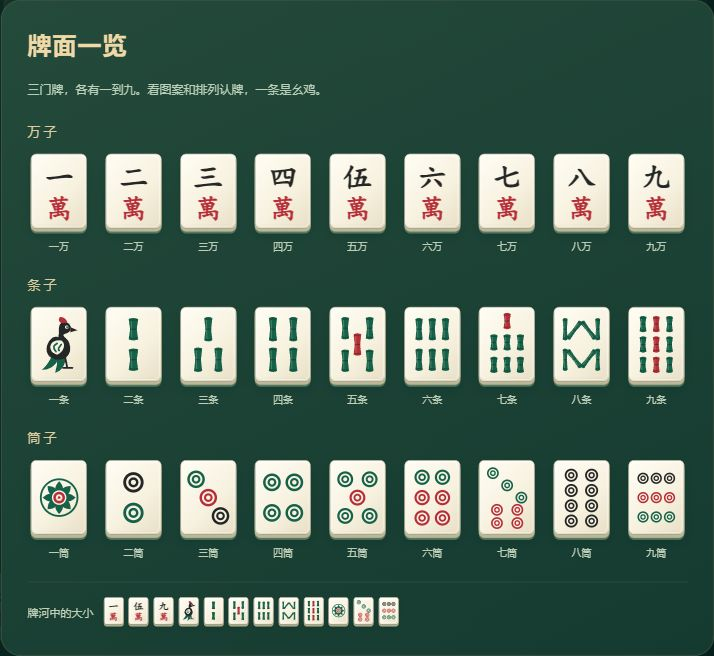
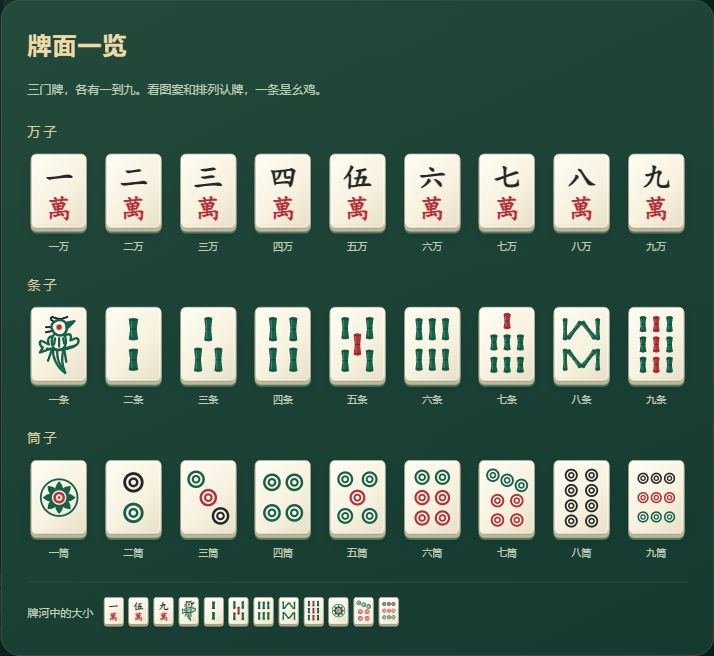
Refine one bamboo bird and seven circles spacing

diff --git a/index.html b/index.html
@@ -2486,7 +2486,8 @@ window.onerror = function (msg, src, line, col) {
     4: { r: 8.7, pts: [[13, 17], [35, 17], [13, 47], [35, 47]], colors: 'gggg' },
     5: { r: 7.8, pts: [[12, 14], [36, 14], [24, 32], [12, 50], [36, 50]], colors: 'ggrgg' },
     6: { r: 7.5, pts: [[14, 12], [34, 12], [14, 32], [34, 32], [14, 52], [34, 52]], colors: 'ggrrrr' },
-    7: { r: 5.8, pts: [[10, 8], [24, 20], [38, 32], [14, 44], [34, 44], [14, 57], [34, 57]], colors: 'gggrrrr' },
+    // 上三筒为浅斜线，下四筒为正方形；两组间留白，不能挤成四行。
+    7: { r: 6.6, pts: [[10, 10], [24, 15], [38, 20], [14.5, 35], [33.5, 35], [14.5, 54], [33.5, 54]], colors: 'gggrrrr' },
     8: { r: 6.4, pts: [[14, 10], [34, 10], [14, 25], [34, 25], [14, 40], [34, 40], [14, 55], [34, 55]], colors: 'kkkkkkkk' },
     9: { r: 5.5, pts: [[11, 13], [24, 13], [37, 13], [11, 32], [24, 32], [37, 32], [11, 51], [24, 51], [37, 51]], colors: 'kkkrrrggg' }
   };
@@ -2524,17 +2525,18 @@ window.onerror = function (msg, src, line, col) {
       '<path d="M' + f(-x * .7) + ' 0H' + f(x * .7) + '" stroke="#082e22" stroke-opacity=".48" stroke-width="1.2"/>' +
       '<path d="M' + f(-x * .7) + ' ' + f(-y + 2) + 'H' + f(x * .7) + 'M' + f(-x * .7) + ' ' + f(y - 2) + 'H' + f(x * .7) + '" stroke="#071e18" stroke-opacity=".3" stroke-width="1.1" stroke-linecap="round"/></g>';
   }
-  // 幺鸡：侧身、长尾与一小笔朱红冠，避免缩小后像空心圆。
+  // 幺鸡：中式刻纹的圆首红眼、展开双翼和下垂长尾，墨绿线条留出羽纹。
   function birdSvg() {
-    return '<g fill="#242725">' +
-      '<path d="M18 40Q15 50 7 57Q18 57 23 47L20 60Q30 57 31 43Z" fill="#166149"/>' +
-      '<path d="M23 25C20 23 15 26 13 31C9 39 14 47 23 47C32 47 37 40 34 31C33 27 29 25 28 23C28 21 33 22 35 18C37 12 31 8 26 11C22 14 25 20 23 25Z"/>' +
-      '<path d="M26 11Q22 8 25 5Q30 5 32 10Z" fill="#b62f38"/>' +
-      '<path d="M35 15L42 18L35 20Z"/>' +
-      '<circle cx="31.5" cy="15" r="1.6" fill="#f8f2e2"/><circle cx="31.8" cy="15" r=".8" fill="#173c30"/>' +
-      '<path d="M22 28C13 29 13 40 22 42C29 39 31 31 26 28Z" fill="#f8f2e2"/>' +
-      '<path d="M22 31Q16 34 21 39M26 32Q22 37 24 38M18 46L14 53M22 48L24 54" fill="none" stroke="#166149" stroke-width="1.7" stroke-linecap="round"/>' +
-      '<path d="M30 45L32 55M28 55H37" fill="none" stroke="#242725" stroke-width="1.8" stroke-linecap="round"/></g>';
+    return '<g fill="none" stroke="#166149" stroke-width="2.3" stroke-linecap="round" stroke-linejoin="round">' +
+      '<path d="M18 35C17 43 21 54 30 60C26 51 26 43 29 35Z" fill="#f8f2e2"/>' +
+      '<path d="M22 38Q22 49 27 55M17 37L13 48M29 37L31 49"/>' +
+      '<path d="M18 24C13 24 12 28 14 32L8 29C4 27 4 33 8 35L5 40L16 36M29 24C34 20 37 22 35 28L40 26C44 25 44 31 40 33L29 36" fill="#f8f2e2"/>' +
+      '<path d="M19 22C16 25 16 33 19 36Q24 39 29 35C32 30 31 25 28 22" fill="#f8f2e2"/>' +
+      '<path d="M12 36Q25 40 39 34M20 26L19 32M24 26V34M28 26L29 31"/>' +
+      '<path d="M30 11L39 9L32 16" fill="#166149"/>' +
+      '<path d="M18 9Q14 7 17 5Q22 7 26 7L32 5M17 15L11 15M16 19L11 20" stroke="#242725" stroke-width="2"/>' +
+      '<path d="M31 14C31 8 24 6 19 10C14 13 17 21 23 23C28 24 33 20 31 14Z" fill="#f8f2e2"/>' +
+      '<circle cx="24" cy="15" r="2.7" fill="#b62f38" stroke="none"/></g>';
   }
   function oneDotSvg() {
     var petals = '';

diff --git a/tests/offline.test.js b/tests/offline.test.js
@@ -10,7 +10,7 @@ function worker(fetch) {
   vm.runInNewContext(fs.readFileSync(path.join(__dirname, '..', 'sw.js'), 'utf8'), {
     URL, fetch,
     self: { location: { href: 'https://example.com/mahjong/sw.js' }, clients: { claim: async () => {} }, addEventListener: (name, fn) => handlers[name] = fn },
-    caches: { keys: async () => ['zmj-v15', 'zmj-v16', 'zmj-v17', 'zmj-v18', 'zmj-v19', 'zmj-v20', 'zmj-v21', 'zmj-v22', 'zmj-v23', 'zmj-v24', 'another-project-v1'], delete: async key => deleted.push(key), open: async () => cache, match: async () => undefined }
+    caches: { keys: async () => ['zmj-v15', 'zmj-v16', 'zmj-v17', 'zmj-v18', 'zmj-v19', 'zmj-v20', 'zmj-v21', 'zmj-v22', 'zmj-v23', 'zmj-v24', 'zmj-v25', 'another-project-v1'], delete: async key => deleted.push(key), open: async () => cache, match: async () => undefined }
   });
   async function request(url = 'https://example.com/mahjong/?room=1234') {
     let response, pending = [];
@@ -23,7 +23,7 @@ function worker(fetch) {
 test('offline upgrade removes only this game old caches', async () => {
   const w = worker(); let done;
   w.handlers.activate({ waitUntil: x => done = x }); await done;
-  assert.deepEqual(w.deleted, ['zmj-v15', 'zmj-v16', 'zmj-v17', 'zmj-v18', 'zmj-v19', 'zmj-v20', 'zmj-v21', 'zmj-v22', 'zmj-v23']);
+  assert.deepEqual(w.deleted, ['zmj-v15', 'zmj-v16', 'zmj-v17', 'zmj-v18', 'zmj-v19', 'zmj-v20', 'zmj-v21', 'zmj-v22', 'zmj-v23', 'zmj-v24']);
 });
 test('failed HTTP responses are not cached; room links share one offline page', async () => {
   const error = worker(async () => ({ ok: false, status: 503 }));

diff --git a/sw.js b/sw.js
@@ -1,6 +1,6 @@
 /* 转转麻将 · Service Worker：离线可用 + 自动更新
  * 策略：页面走 network-first（保证更新及时），静态资源走 cache-first（保证离线）。 */
-var CACHE = 'zmj-v24';
+var CACHE = 'zmj-v25';
 var ASSETS = ['./', './index.html', './manifest.webmanifest', './icon-512.png'];
 self.addEventListener('install', function (e) {
   e.waitUntil(caches.open(CACHE).then(function (c) { return c.addAll(ASSETS); }).then(function () { return self.skipWaiting(); }));

diff --git a/视觉设计说明.md b/视觉设计说明.md
@@ -27,7 +27,7 @@
 
 根据用户对条子和筒子的反馈，重画整套图案：
 
-- 条子使用连续竹身、暗色竹节和墨绿配色；二条上下分列两根，八条为上 W、下 M；一条为黑身、绿羽和红冠的幺鸡。
+- 条子使用连续竹身、暗色竹节和墨绿配色；二条上下分列两根，八条为上 W、下 M；一条为墨绿刻线、圆首红眼、双翼长尾的幺鸡。
 - 筒子使用黑、绿、红三色套环；一筒为绿花红心，七筒上三点斜排、下四点方排，各牌按同一套中式实物牌核对配色。
 - 万子采用黑色数字、红色“萬”字，五万的数字使用实物图中的“伍”。取消多层字影。
 - 每个牌面都是独立 SVG，缩放时无位图模糊，也不再依赖页面上的共享渐变定义。图案以自绘路径组合；[布鲁克林博物馆的实物牌资料](https://www.brooklynmuseum.org/objects/164742)作为配色与排列的参考资料之一。
@@ -41,7 +41,7 @@
 
 | 数值 | 条子 | 筒子 |
 | --- | --- | --- |
-| 一 | 黑身绿羽、红冠幺鸡 | 绿花、红心 |
+| 一 | 墨绿刻线、圆首红眼、双翼长尾幺鸡 | 绿花、红心 |
 | 二 | 上下两根绿竹 | 上黑、下绿 |
 | 三 | 上一、下二，均绿 | 沿斜线依次为绿、红、黑 |
 | 四 | 两行两列绿竹 | 四个绿圈 |
@@ -53,7 +53,15 @@
 
 二条竹身不被白色横线切断，避免误认六段；小尺寸预览包含二条、六条、八条及七筒，便于直接比较。
 
-本次通过界面布局 32 条、逐张选牌 11 条、训练交互 21 条浏览器断言，以及 3 项离线更新测试、自包含检查。规则与推荐引擎逐字比较一致。实际查看桌面和 390×844 竖屏，截图已更新；缓存升级至 `zmj-v24`。真实手机触感与不同设备显示仍需实机确认。
+该轮通过界面布局 32 条、逐张选牌 11 条、训练交互 21 条浏览器断言，以及 3 项离线更新测试、自包含检查，缓存升级至 `zmj-v24`。
+
+### 一条与七筒再校正（第九轮）
+
+用户反馈一条仍不像、七筒排列有问题。本轮放大查看上面的中式实物牌图：一条采用圆首红眼、展开羽翼和下垂长尾的刻线造型，重新自绘 SVG，主色由整块黑身改为墨绿线条与象牙留白。[另一张一条实物近照](https://www.popdaily.com.tw/u/202008/480d47f4-4a45-4e54-aaa5-341c70205fd7.jpg)用于比较刻纹的线条与留白；本项目采用前述中式牌图的造型。
+
+七筒上方三绿圈的斜率由约 41° 调整到约 20°；下方四红圈改为等横纵间距的正方阵。圆圈半径从 5.8 调整为 6.6，保留两组之间的空隙，避免原先斜排过陡、下方两排过挤的问题。
+
+针对这两处修正，重新通过 32 条界面布局、11 条逐张选择、21 条训练交互浏览器断言、3 项离线更新测试和自包含检查。规则与推荐引擎逐字比较一致。实际查看桌面、390×844 竖屏及 20×27 小牌，更新下方截图，缓存升级至 `zmj-v25`。这次为自绘刻纹近似，不声称复刻某一厂牌；真实手机触感与不同设备显示仍需实机确认。
 
 ![最新牌面细节](reports/screenshots/tile-faces.jpg)
 

diff --git a/实施记录.md b/实施记录.md
@@ -2,6 +2,12 @@
 
 日期：2026-10-17。工作分支：`codex/mahjong-training-quality`。
 
+## 第九轮：重绘幺鸡与调整七筒分组
+
+按用户反馈，放大查看中式实物牌图，重新自绘一条：墨绿刻线、象牙留白，明确圆首红眼、双翼和长尾。七筒上方三绿圈改为较浅的斜排，下方四红圈改成等横纵间距的正方阵；适当放大圆圈，保留两组之间的空隙。参考与具体调整见 [视觉设计说明](视觉设计说明.md)。
+
+验证：32 条界面布局、11 条逐张选择、21 条训练交互浏览器断言，3 项离线更新与零依赖检查通过。规则与推荐引擎和上一提交逐字一致。桌面、390×844 竖屏及 20×27 小牌预览已实际查看，更新四张牌面截图。缓存升级为 v25，在原功能分支提交供审查。
+
 ## 第八轮：按中式实物牌统一颜色与布局
 
 用户指出八条方向仍反了，并要求其他牌也尽量符合实物。本次实际查看清晰中式牌面图，对三门 27 种牌逐张核对，来源和逐项对照表见 [视觉设计说明](视觉设计说明.md)。八条翻正为上 W、下 M；万子为黑数红“萬”，五万用“伍”；六条改为上下各三根，七条为顶端一红、下方两行各三绿。筒子统一为该套实物牌的黑、绿、红布局，一筒绿花红心、二筒上黑下绿、三筒绿红黑斜排、四筒全绿、五筒四绿一红、六筒上二绿下四红、七筒上三绿斜排下四红、八筒全黑、九筒黑红绿三排。幺鸡为黑身绿羽红冠。

diff --git a/发布与回滚.md b/发布与回滚.md
@@ -22,7 +22,7 @@
 
 结算亮牌也需要前后端一起更新：旧服务器不提供 `hand.revealed`，新前端会明确提示无法取得终局手牌。局中不得出现该字段；结算后才下发四家暗牌，下一局移除。验收时检查荒庄、自摸、一炮多响、关闭后重开，以及别人先续局时能返回当前牌局。
 
-服务器只保存在内存中的房间，重启后丢失；安排维护时先告知正在同桌的玩家。不要承诺重启后自动续局。当前离线缓存为 `zmj-v24`。
+服务器只保存在内存中的房间，重启后丢失；安排维护时先告知正在同桌的玩家。不要承诺重启后自动续局。当前离线缓存为 `zmj-v25`。
 
 联机响应修复需要更新并重启 Node 进程，单纯刷新页面不会替换进程内已加载的服务端代码。新版先确认真人操作并回传牌面，再异步推进电脑；旧前端仍可使用。新前端连旧服务器时提示更新后才能测量网络往返。重启前确认无进行中的牌局；随后在「联机」面板核对往返、操作确认及服务器处理耗时，见 [排查记录](联机响应排查.md)。
 
